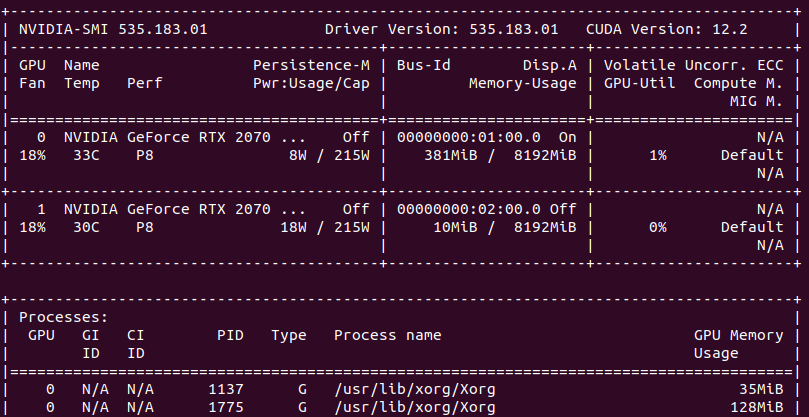
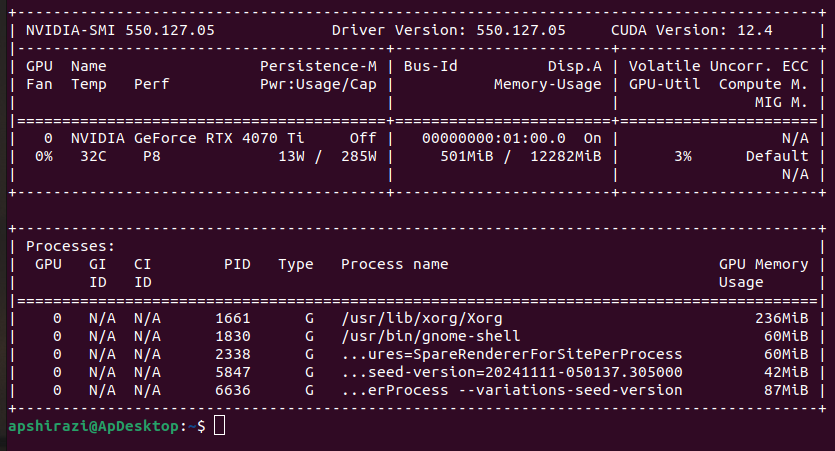
12

diff --git a/doc/Hardware_Config/Ubuntu_Cuda_VScode.md b/doc/Hardware_Config/Ubuntu_Cuda_VScode.md
@@ -1,12 +1,24 @@
 # Ubuntu 20.04 (OS) Installation
-1. Download [Ubuntu 20.04 Focal](https://releases.ubuntu.com/focal/) Image (64bit PC AMD64)
+1. Download [Ubuntu 22.04.5 LTS (Jammy Jellyfish)](https://releases.ubuntu.com/jammy/) Image (64bit PC AMD64)
 2. Create a bootable image of the downloaded file using [BalenaEtcher](https://etcher.balena.io/#download-etcher)
     - Make sure to turn off **Secure Boot** on your device using **BIOS Setting** before proceeding to the installation
     - Turn off **RTS/RAID on** on your device using **BIOS Setting**
     - If you're doing a dual boot **Windows/Ubuntu**, make sure to follow [this tutorial](https://www.youtube.com/watch?v=YRu__8ggMSY) before proceeding to the installation
-3. Reboot your **Desktop/Laptop** and press **F12/F2** depending to load the **Boot Menu**
+3. Reboot your **Desktop/Laptop** and press **F12** depending to load the **Boot Menu**
 4. Follow the tutorials to install Ubuntu
+    - In the process of installing Ubuntu, connect your device to the internet
+    - in the Installation section, make sure to check:
+        - **Normal installation**
+        - **Download updates while installting ubuntu**
+        - **Install third-party software for ...**
+        - ![Ubuntu_Installation](https://github.com/AmirpooyaSh/Isaac_CuRobo/blob/main/doc/imgs/ubuntu_install.png)
 5. You should be able to login to the installed Ubuntu by the next reboot
+6. You should be able to check the installed NVIDIA Driver by running the command below **(This is the driver Ubuntu installer decided to install which is the most recommended one for your GPU and should not be removed/changed manually)**:
+    ```shell
+    nvidia-smi
+    ```
+    ![CUDA Toolkit check](https://github.com/AmirpooyaSh/Isaac_CuRobo/blob/main/doc/imgs/cuda_toolkit.png)
+
 
 <br>
 
@@ -16,26 +28,22 @@
     - Having a CUDA Capable **Nvidia Graphical Processor Unit (GPU)**
     - The **GPU** should be compatible with:
         - *CUDA>=11.0*
-        - *CUDA ToolKit = 535.183.01*
-            - Tested GPUs: *RTX 2070S, 4070TI, 4090*
     - Having a Beginner to Intermediate knowledge of working with **Ubuntu Command Terminal**
 
 <br><br>
 
 - Installing CUDA:
 
-    - [CUDA 11.8](https://developer.nvidia.com/cuda-11-8-0-download-archive?target_os=Linux&target_arch=x86_64&Distribution=Ubuntu&target_version=20.04&target_type=deb_local)
+    - [CUDA 11.8](https://developer.nvidia.com/cuda-11-8-0-download-archive?target_os=Linux&target_arch=x86_64&Distribution=Ubuntu&target_version=22.04&target_type=runfile_local
     - Follow the provided commads **(Same as the ones provided link)**
 
         ```shell
-        wget https://developer.download.nvidia.com/compute/cuda/repos/ubuntu2004/x86_64/cuda-ubuntu2004.pin
-        sudo mv cuda-ubuntu2004.pin /etc/apt/preferences.d/cuda-repository-pin-600
-        wget https://developer.download.nvidia.com/compute/cuda/11.8.0/local_installers/cuda-repo-ubuntu2004-11-8-local_11.8.0-520.61.05-1_amd64.deb
-        sudo dpkg -i cuda-repo-ubuntu2004-11-8-local_11.8.0-520.61.05-1_amd64.deb
-        sudo cp /var/cuda-repo-ubuntu2004-11-8-local/cuda-*-keyring.gpg /usr/share/keyrings/
-        sudo apt-get update
-        sudo apt-get -y install cuda
+        wget https://developer.download.nvidia.com/compute/cuda/11.8.0/local_installers/cuda_11.8.0_520.61.05_linux.run
+        sudo sh cuda_11.8.0_520.61.05_linux.run
         ```
+        - Through the installation process, make sure to hit **Continue** instead of Abort and uncheck the installation of NVIDIA Driver **520.61.05**
+        - The suggesting NVIDIA Driver **(520.61.05)** is providing an outdated installation which can lead into **Ubuntu Boot Problems** if you install it
+        - ![CUDA_TK](https://github.com/AmirpooyaSh/Isaac_CuRobo/blob/main/doc/imgs/cuda_tk_install.png)
     - Open ~/.bashrc by:
 
         ```shell
@@ -58,72 +66,6 @@
             ![CUDA Version Test](https://github.com/AmirpooyaSh/Isaac_CuRobo/blob/main/doc/imgs/cuda.png)
 
 <br><br>
-
-Following the provided terminal commands **(might be outdated, so its better to use NVIDIA website's link than the provided command lines)** you should be able to install CUDA, but some of the packages might show installation error **(which is because of the outdated Cuda Toolkit installation alongside with CUDA 11.8)**.
-
-- Updating the **CUDA Toolkit**:
-
-    - Remove Outdated CUDA DKMS files:
-
-        ```shell
-        sudo rm -r /var/lib/dkms/nvidia
-        ```
-    - Remove Outdated ToolKit:
-
-        ```shell
-        sudo apt-get purge 'nvidia-*'
-        ```
-    - Reinstall basic Ubuntu DKMS files:
-
-        ```shell
-        sudo apt-get install build-essential dkms
-        sudo apt-get install linux-headers-$(uname -r)
-        ```
-    - Reboot the device **(Read the following section before Rebooting)**
-
-<br><br>
-
-Now that you uninstalled the outdated **CUDA Toolkit** and its **Booting Kernels** ubuntu won't come up by itself and you will see a black screen, because the OS tries to boot using GPU interface, but there is no GPU software to support that. At this point you should boot your OS with its default kernel **nomodeset**.
-
-- Booting Ubuntu on default Kernel:
-
-    - On boot menu **(GRUB Menu)** press **"e"**
-    - Add the word **nomodeset** to the line before the ending line which starts with:
-
-        ```shell
-        linux        /boot/...........                      nomodeset
-        ```
-    
-    - Press **Ctrl+X** to boot into Ubuntu
-
-<br><br>
-
-Now you have to install the newer version of **CUDA Toolkit** to make things work again.
-
-- Installing **CUDA Toolkit 535.183.01**
-
-    - Open a terminal and write:
-        
-        ```shell
-        sudo apt-get install nvidia-driver-535
-        sudo update-initramfs -u
-        ```
-    
-    - Reboot the device
-
-<br><br>
-
-If you've done everything as mentioned, Ubuntu should come up without any preprocesses. Once it came up, check the **CUDA Toolkit** version by:
-
-    nvidia-smi
-
-<br><br>
-
-**If you get something like below, you're all fine !!!!!**
-
-![CUDA Toolkit check](https://github.com/AmirpooyaSh/Isaac_CuRobo/blob/main/doc/imgs/cuda_toolkit.png)
-
-<br>
 
 # VScode (Just For Developing Codes)
 

diff --git a/README.md b/README.md
@@ -18,7 +18,7 @@ This repository belongs to the Smart IDC Lab (supervised by Dr. Aladdin Alwisy -
         ubuntu-drivers devices
         ```
 
-    - Any NVIDIA driver >= 450-80-02 means that CUDA 11.8 can work with your GPU's NVIDIA driver.
+    - Any NVIDIA driver >= 450-80-02 means that CUDA 11.8 can work with your GPU's NVIDIA driver
 
 <br>
 